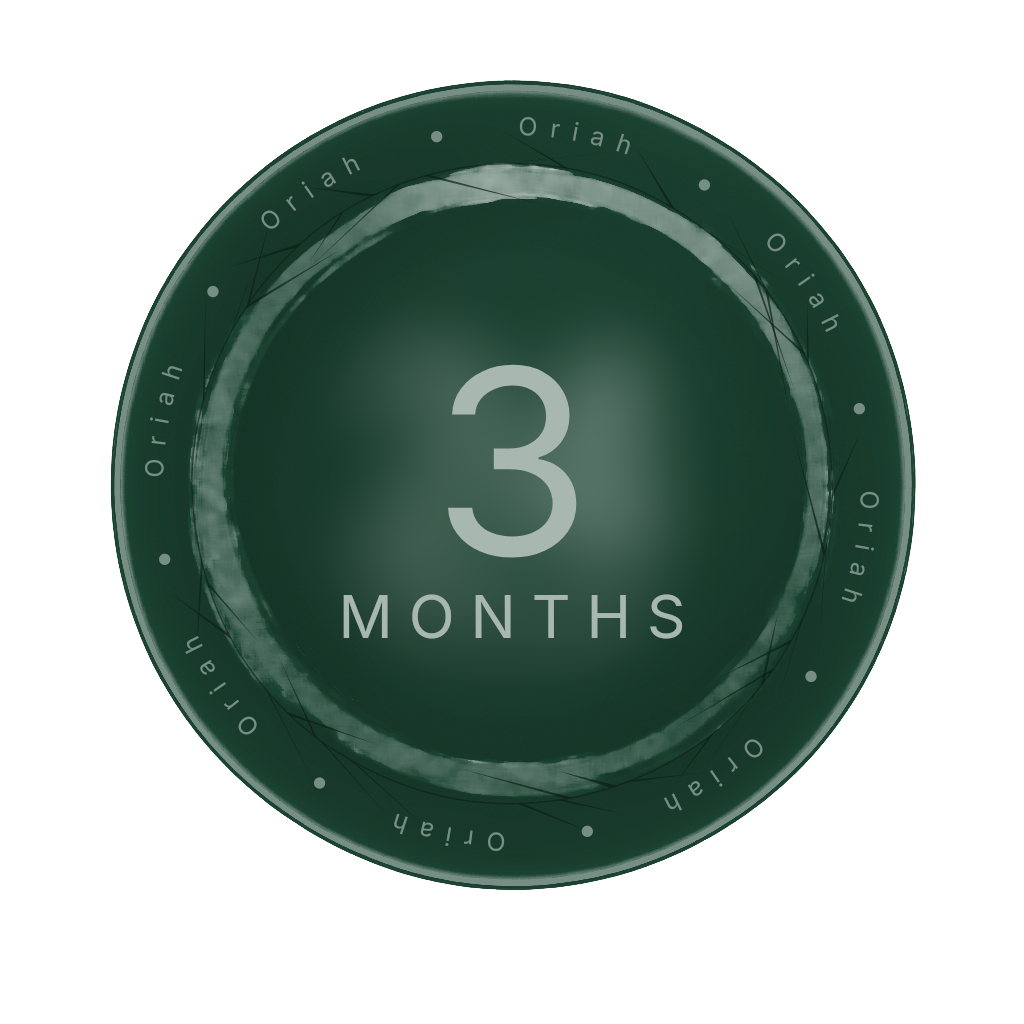
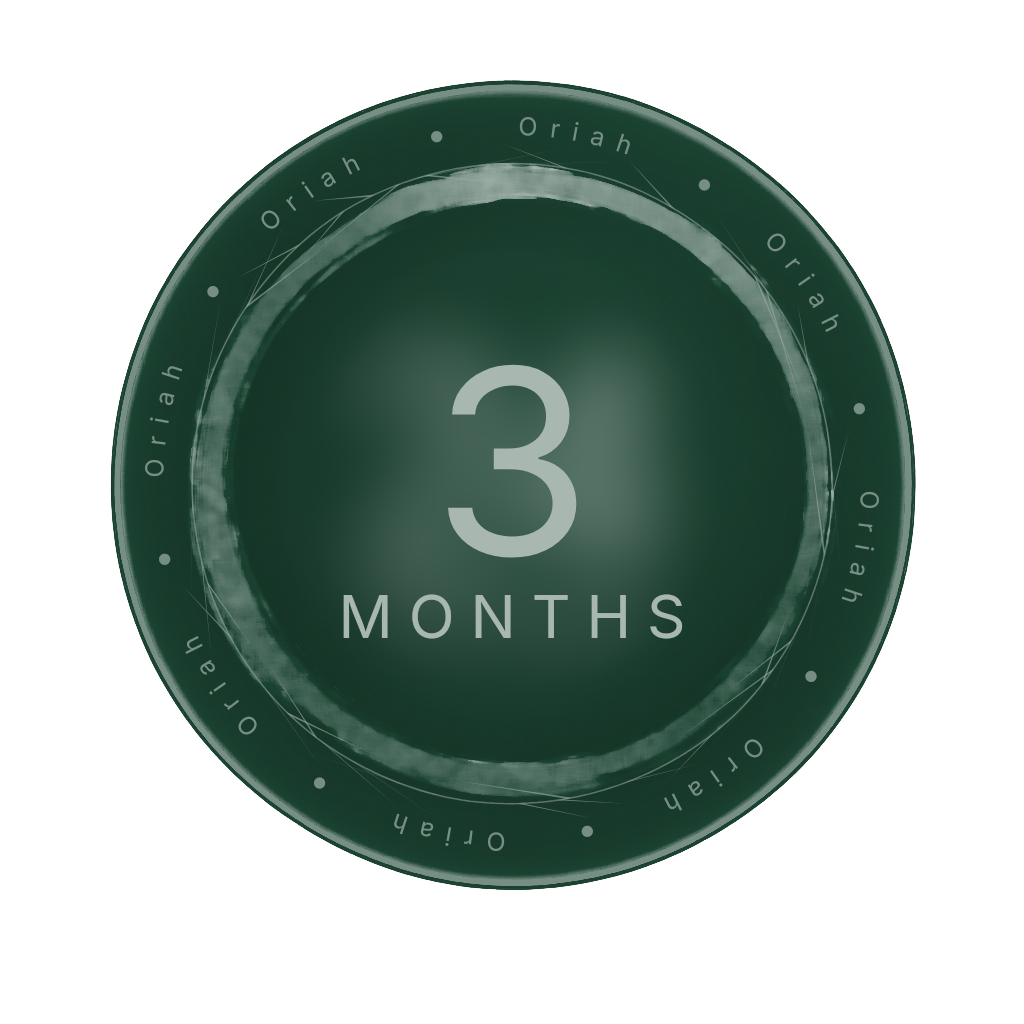
Oriah preview v5: contained thorns + adaptive color (dark on light, light on dark badges)

diff --git a/oriah-badges-staging/scripts/generate-oriah-badges.ts b/oriah-badges-staging/scripts/generate-oriah-badges.ts
@@ -379,15 +379,31 @@ function drawMicroTypography(ctx: SKRSContext2D, hex: string) {
 // as part of the chrome ring itself rather than a separate inner element.
 function drawCrownOfThorns(ctx: SKRSContext2D, hex: string) {
   // Branch sits at the chrome ring's centerline (~r=320, mid-band).
-  // Thorns then spike both inward and outward through the brushwork.
   const branchR = 320
 
+  // Adaptive thorn color: dark engraved tone for light badges (gold,
+  // silver), light raised tone for dark badges (forest, navy, indigo).
+  // Same lift either way so every coin reads with similar contrast.
   const [r, g, b] = hexToRgb(hex)
-  const darkR = Math.round(r * 0.45)
-  const darkG = Math.round(g * 0.45)
-  const darkB = Math.round(b * 0.45)
-  const stroke = `rgba(${darkR}, ${darkG}, ${darkB}, 0.6)`
-  const fill   = `rgba(${darkR}, ${darkG}, ${darkB}, 0.7)`
+  const badgeLum = (r * 0.299 + g * 0.587 + b * 0.114) / 255
+  let tr: number, tg: number, tb: number, strokeA: number, fillA: number
+  if (badgeLum > 0.5) {
+    // Light badge — push toward black.
+    tr = Math.round(r * 0.45)
+    tg = Math.round(g * 0.45)
+    tb = Math.round(b * 0.45)
+    strokeA = 0.6
+    fillA = 0.7
+  } else {
+    // Dark badge — push toward white.
+    tr = Math.round(r + (255 - r) * 0.55)
+    tg = Math.round(g + (255 - g) * 0.55)
+    tb = Math.round(b + (255 - b) * 0.55)
+    strokeA = 0.55
+    fillA = 0.65
+  }
+  const stroke = `rgba(${tr}, ${tg}, ${tb}, ${strokeA})`
+  const fill   = `rgba(${tr}, ${tg}, ${tb}, ${fillA})`
 
   let seed = 1337
   const rand = () => {
@@ -416,8 +432,8 @@ function drawCrownOfThorns(ctx: SKRSContext2D, hex: string) {
   ctx.lineJoin = 'round'
   ctx.stroke()
 
-  // 2. Thorns — bigger this round so they span the chrome ring's width,
-  //    angled off-radial so none reads as a flat post.
+  // 2. Thorns — shorter than v4 so they stay within the chrome ring band
+  //    (no overflow into the outer halo). Bases consistent in width.
   type Thorn = {
     angle: number
     len: number
@@ -432,28 +448,30 @@ function drawCrownOfThorns(ctx: SKRSContext2D, hex: string) {
   }
 
   const thorns: Thorn[] = []
-  // Outward thorns — extend toward the chrome ring's outer edge (~r=380).
+  // Outward thorns — extend toward (but not past) the chrome ring outer edge.
+  // Branch at 320 + max 26 = 346 → still well inside the ring's outer edge (~370).
   const N_OUT = 28
   for (let i = 0; i < N_OUT; i++) {
     const evenly = (i / N_OUT) * Math.PI * 2
     const jitter = (rand() - 0.5) * (Math.PI * 2 / N_OUT) * 0.7
     thorns.push({
       angle: evenly + jitter,
-      len: 22 + rand() * 22,    // 22–44 px — reaches into the brushwork
+      len: 14 + rand() * 12,    // 14–26 px
       side: 1,
       skew: skewed(),
-      base: 2.6 + rand() * 1.4, // 2.6–4.0 px — thicker
+      base: 2.4 + rand() * 1.0, // 2.4–3.4 px
     })
   }
-  // Inward thorns — extend back toward the inner-disc edge (~r=265).
-  const N_IN = 16
+  // Inward thorns — branch at 320 - max 22 = 298 → stays inside chrome ring,
+  // doesn't poke into the inner disc area (which ends at ~r=265).
+  const N_IN = 14
   for (let i = 0; i < N_IN; i++) {
     thorns.push({
       angle: rand() * Math.PI * 2,
-      len: 18 + rand() * 22,    // 18–40 px
+      len: 12 + rand() * 10,    // 12–22 px
       side: -1,
       skew: skewed(),
-      base: 2.2 + rand() * 1.3, // 2.2–3.5 px
+      base: 2.0 + rand() * 0.9, // 2.0–2.9 px
     })
   }
 
